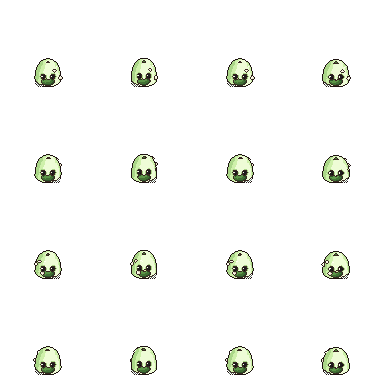
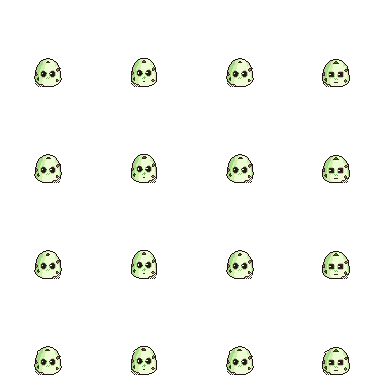
fix: monsters: mossSlime com nucleo centralizado tramado, boca separada e pedrinhas contrastantes
- nucleo medio em disco centralizado, bordas tramadas 50%, longe dos olhos e da boca
- 3 pedrinhas e 2 folhas escuras espalhadas e afastadas do rosto
- boca separada do nucleo; olhos e tamanho mantidos

diff --git a/art-source/monsters/mossSlime/build.py b/art-source/monsters/mossSlime/build.py
@@ -44,18 +44,18 @@ BICO = 0.03                                # m, bico leve no topo
 # ------------------------------------------------------------------ paleta por material (tons claro -> escuro)
 MATS = {
     "gelatina": dict(r=[(238, 252, 214), (206, 240, 170), (170, 214, 136)], layer="corpo", w=1.0, dith=0.02, bias=0.0, ao=0.3),
-    "nucleo": dict(r=[(92, 150, 72), (66, 112, 52), (44, 80, 40)], layer="corpo", w=1.0, dith=0.02, bias=0.0, ao=0.4),
-    "pedra_clara": dict(r=[(255, 252, 236), (236, 230, 206), (206, 200, 178)], layer="corpo", w=0.9, dith=0.02, bias=0.0, ao=0.4),
-    "folha_clara": dict(r=[(230, 248, 178), (196, 230, 140)], layer="corpo", w=0.9, dith=0.02, bias=0.0, ao=0.4),
+    "nucleo": dict(r=[(132, 186, 106), (106, 160, 88)], layer="nucleo", w=1.0, dith=0.0, bias=0.0, ao=0.0),
+    "pedra_escura": dict(r=[(156, 124, 98), (120, 92, 70)], layer="corpo", w=0.9, dith=0.02, bias=0.0, ao=0.4),
+    "folha_escura": dict(r=[(70, 130, 60), (46, 98, 42)], layer="corpo", w=0.9, dith=0.02, bias=0.0, ao=0.4),
     "musgo": dict(r=[(70, 122, 52), (46, 92, 38)], layer="corpo", w=1.0, dith=0.02, bias=0.0, ao=0.6),
     "sombra_meia": dict(r=[(92, 104, 92)], layer="sombra_meia", w=1.0, dith=0.0, bias=0.0, ao=0.0),
     "sombra": dict(r=[(56, 66, 56), (40, 48, 40)], layer="sombra", w=1.0, dith=0.0, bias=0.0, ao=0.0),
     "olho": dict(r=[(30, 26, 28), (14, 12, 14)], layer="olhos", w=1.0, dith=0.0, bias=0.0, ao=0.2),
     "brilho": dict(r=[(255, 255, 240), (230, 246, 210)], layer="brilho", w=1.0, dith=0.0, bias=0.0, ao=0.0),
 }
-CAMADAS = ["sombra_meia", "sombra", "corpo", "olhos", "brilho"]          # ordem de baixo para cima
+CAMADAS = ["sombra_meia", "sombra", "corpo", "nucleo", "olhos", "brilho"]          # ordem de baixo para cima
 # pe do modelo na linha 80 (pivo (48, 80)): a sombra de contato precisa de folga abaixo da base iso
-ESTILO = PP.Estilo(tile=TILE, mats=MATS, camadas=CAMADAS, sem_linha=("brilho", "sombra", "sombra_meia"),
+ESTILO = PP.Estilo(tile=TILE, mats=MATS, camadas=CAMADAS, sem_linha=("brilho", "sombra", "sombra_meia", "nucleo"),
                    origem_y=80.0, pivo=(TILE // 2, 80))
 
 
@@ -166,25 +166,26 @@ def add(nome, layer, mat, grp, malha, pose_grp="corpo"):
 add("sombra_meia", "sombra_meia", "sombra_meia", 10, elipsoide((0.0, 0.0, 0.001), 0.35, 0.23, 0.001, 1), "fixo")
 add("sombra", "sombra", "sombra", 8, elipsoide((0.0, 0.0, 0.004), 0.22, 0.15, 0.002, 1), "fixo")
 add("casca", "corpo", "gelatina", 1, gelatina())
-add("nucleo", "corpo", "nucleo", 6, elipsoide((0.0, -0.19, 0.10), 0.16, 0.12, 0.12, 1), "rosto")
-PEDRAS = [(math.radians(-70), 0.13, 0.045, "pedra_clara"), (math.radians(-120), 0.25, 0.038, "pedra_clara"),
-          (math.radians(-98), 0.36, 0.032, "pedra_clara")]
+# nucleo: disco medio centralizado (um pouco acima do meio), na camada propria, com bordas tramadas
+add("nucleo", "nucleo", "nucleo", 6, elipsoide(sobre_superficie(math.radians(-90), 0.205, 0.004), 0.05, 0.012, 0.035, 1), "rosto")
+PEDRAS = [(math.radians(-30), 0.34, 0.030, "pedra_escura"), (math.radians(-160), 0.22, 0.026, "pedra_escura"),
+          (math.radians(-45), 0.10, 0.024, "pedra_escura")]
 for i, (th, z, r, mat) in enumerate(PEDRAS):
     c = sobre_superficie(th, z, r * 0.5)
-    add("pedra%d" % i, "corpo", mat, 3, elipsoide(c, r, r, r * 0.8, 0))
-FOLHAS = [(math.radians(-150), 0.20), (math.radians(-40), 0.16)]
+    add("pedra%d" % i, "corpo", mat, 3, elipsoide(c, r, r, r * 0.8, 0), "rosto")
+FOLHAS = [(math.radians(10), 0.27), (math.radians(-140), 0.12)]
 for i, (th, z) in enumerate(FOLHAS):
-    add("folha%d" % i, "corpo", "folha_clara", 4, folha(th, z))
+    add("folha%d" % i, "corpo", "folha_escura", 4, folha(th, z), "rosto")
 MUSGO = [((0.00, 0.00), 0.455, 0.040), ((0.05, 0.03), 0.430, 0.030), ((-0.05, 0.02), 0.420, 0.030), ((0.01, -0.05), 0.440, 0.026)]
 for i, ((dx, dy), z, r) in enumerate(MUSGO):
     add("musgo%d" % i, "corpo", "musgo", 7, elipsoide((dx, dy, z), r, r, r * 0.7, 0))
 # rosto (frente = camera): olhos maiores, brilho branco de 1 px e boca simples
-OLHOS = [(math.radians(-110), 0.26), (math.radians(-70), 0.26)]
+OLHOS = [(math.radians(-110), 0.32), (math.radians(-70), 0.32)]
 for i, (th, z) in enumerate(OLHOS):
     c = sobre_superficie(th, z, 0.05)
     add("olho%d" % i, "olhos", "olho", 2, elipsoide(c, 0.07, 0.07, 0.07, 1), "rosto")
     add("brilho%d" % i, "brilho", "brilho", 5, elipsoide((c[0] - 0.028, c[1] - 0.045, c[2] + 0.030), 0.024, 0.024, 0.024, 0), "rosto")
-boca_c = sobre_superficie(math.radians(-90), 0.175, 0.014)
+boca_c = sobre_superficie(math.radians(-90), 0.115, 0.012)
 add("boca", "olhos", "olho", 9, elipsoide(boca_c, 0.05, 0.013, 0.013, 0), "rosto")
 # brilho umido no topo (segue o corpo)
 add("brilho_topo", "brilho", "brilho", 5, elipsoide(sobre_superficie(math.radians(-62), 0.39, 0.004), 0.055, 0.022, 0.012, 0), "corpo")
@@ -293,6 +294,16 @@ def pousar_todos(M_local, yaw):
     pousar(M_local, yaw, "fixo")
 
 
+def borda_tramada(rgba):
+    """Bordas do nucleo em 50% (xadrez) e miolo solido: parece atras da camada de gelatina."""
+    a = rgba.copy()
+    m = a[..., 3] > 0
+    inner = m & np.roll(m, 1, 0) & np.roll(m, -1, 0) & np.roll(m, 1, 1) & np.roll(m, -1, 1)
+    yy, xx = np.mgrid[0:a.shape[0], 0:a.shape[1]]
+    a[m & ~inner & ((xx + yy) % 2 == 1), 3] = 0
+    return a
+
+
 def meia_tinta(rgba):
     """Meio-tom com alfa binario: apaga metade dos pixels (xadrez) da camada de sombra exterior."""
     a = rgba.copy()
@@ -310,8 +321,9 @@ for anim in ANIMS_EXEC:
         for f in range(nf):
             pousar_todos(pose(anim, f), yaw_para(dname))
             PIPE.set_attrs()
-            partes = [meia_tinta(PIPE.estagio(CAMADAS, camada)[0]) if camada == "sombra_meia"
-                      else PIPE.estagio(CAMADAS, camada)[0] for camada in CAMADAS]
+            partes = [PIPE.estagio(CAMADAS, camada)[0] for camada in CAMADAS]
+            partes = [meia_tinta(r) if c == "sombra_meia" else borda_tramada(r) if c == "nucleo" else r
+                      for c, r in zip(CAMADAS, partes)]
             cels.append(PP.compose(partes))
         linhas.append(cels)
     PP.save_png(PP.montar_atlas(linhas), os.path.join(OUTDIR, "%s.png" % anim))
